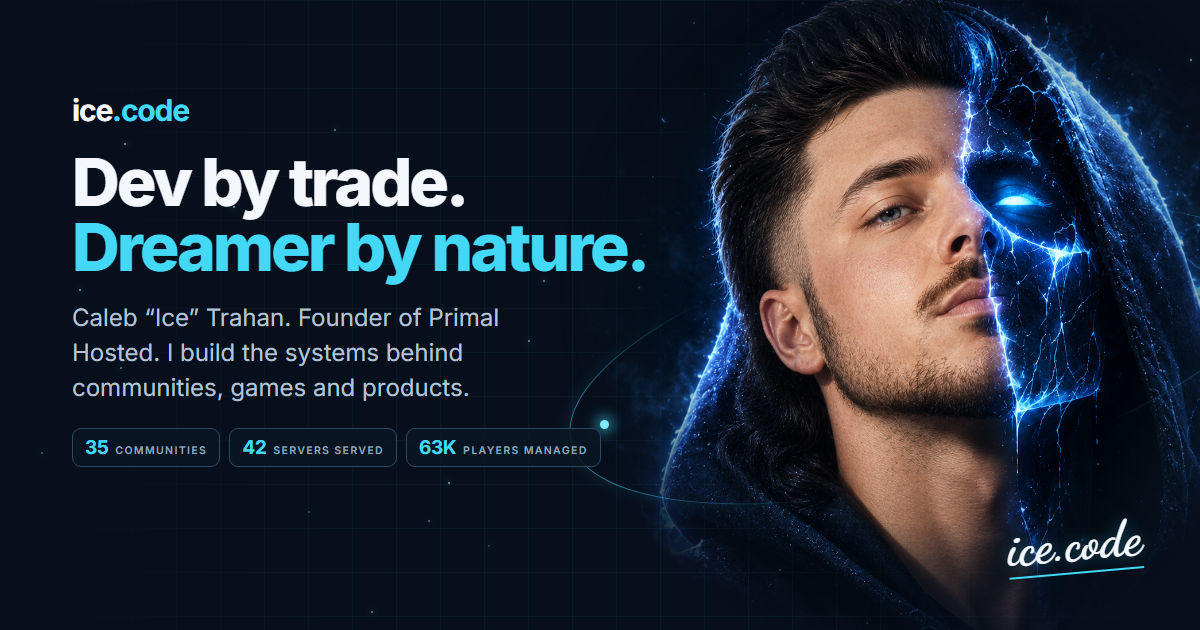
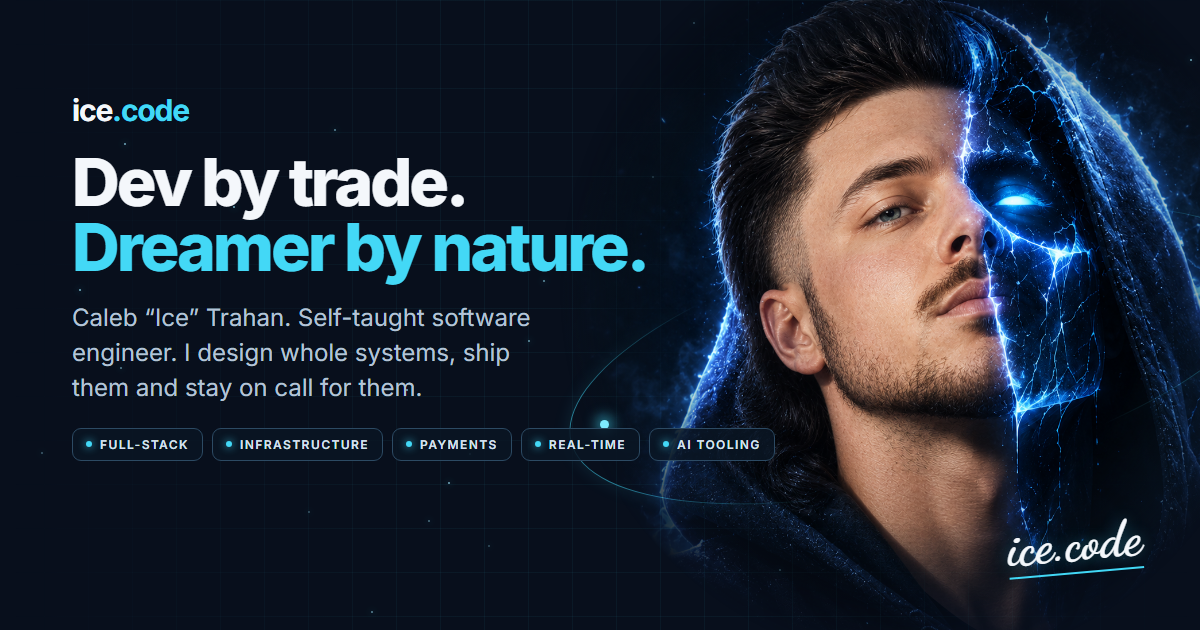
Share image + preview text: engineer-first (no Primal Hosted stats, no games framing)

diff --git a/src/app/layout.tsx b/src/app/layout.tsx
@@ -40,15 +40,15 @@ export const metadata = {
     type: "website",
     locale: "en_US",
     url: "https://icecode.dev",
-    title: "Caleb \"Ice\" Trahan · Founder & Engineer",
-    description: "Dev by trade. Dreamer by nature. I build the systems behind communities, games and products, then keep them running. Founder of Primal Hosted.",
+    title: "Caleb \"Ice\" Trahan · Software Engineer",
+    description: "Dev by trade. Dreamer by nature. Self-taught software engineer: I design whole systems, ship them and stay on call for them.",
     siteName: "ice.code",
     images: [{ url: "/og.png", width: 1200, height: 630, alt: "Caleb \"Ice\" Trahan — Dev by trade. Dreamer by nature." }],
   },
   twitter: {
     card: "summary_large_image",
-    title: "Caleb \"Ice\" Trahan · Founder & Engineer",
-    description: "Dev by trade. Dreamer by nature. Founder of Primal Hosted: game-server hosting for 35 communities.",
+    title: "Caleb \"Ice\" Trahan · Software Engineer",
+    description: "Dev by trade. Dreamer by nature. Full-stack, infrastructure, payments and real-time systems.",
     images: ["/og.png"],
   },
   robots: {
